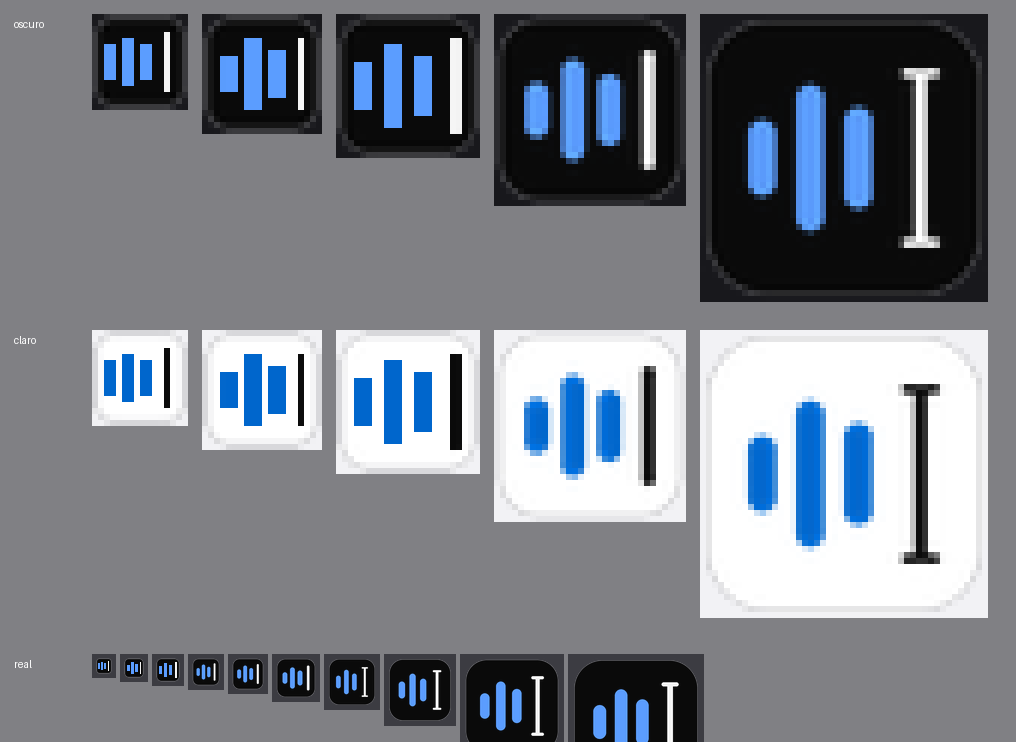
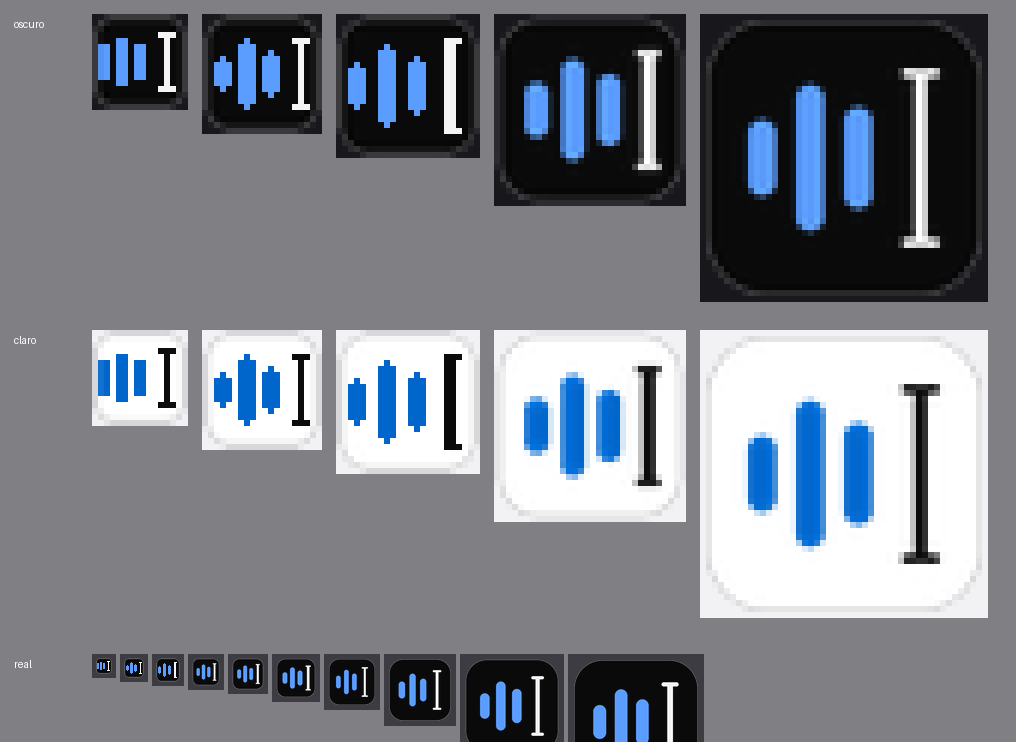
icono: la marca completa en todas las tallas
- Por debajo de 48 px la marca se simplificaba: de 28 a 47 px el cursor iba
  sin remates y por debajo de 28 px barras y cursor eran rectangulos secos.
- Ahora las barras son capsulas (radio bw/2) en todas las tallas y el cursor
  lleva asta y sus dos remates en las tres geometrias: 1 px en la rejilla
  pequena, 24 unidades centradas en el asta de 28 a 47 px y el remate de
  siempre de 48 px en adelante (que no cambia ni un pixel).
- _ICON_ICO_VER 9 -> 10: cambian el .ico cacheado y la URL del favicon.
- Version 1.0.10 en codigo, instalador y README; CHANGES al dia.

diff --git a/dicta_icon.py b/dicta_icon.py
@@ -12,12 +12,15 @@ de un borde (el mismo principio que el cuerpo de la isla). La marca se dibuja a
 8x y se reduce (anti-alias limpio) y se recorta contra el azulejo, para que no
 asome por las esquinas redondeadas.
 
-El icono se **adapta a cada talla** (no es un unico PNG reescalado):
+El icono se **adapta a cada talla** (no es un unico PNG reescalado), pero la
+marca es SIEMPRE la completa --barras con radio y cursor con remates--; lo que
+cambia es el grosor del trazo y la rejilla:
 
 * 16-27 px: geometria entera y sin supermuestreo, para que caiga en la rejilla
-  de pixeles y no se emborrone en la barra de tareas.
-* 28-47 px: barras y cursor mas gruesos y sin remates.
-* 48 px en adelante: cursor con remates (I-beam) y trazo mas fino.
+  de pixeles y no se emborrone en la barra de tareas. El cursor lleva sus dos
+  remates, de 1 px.
+* 28-47 px: barras y cursor mas gruesos.
+* 48 px en adelante: trazo mas fino.
 
 El .ico trae las tallas de los escalados de Windows (125 %, 150 %, 175 %,
 200 %): pedir una talla que no existe obliga al sistema a reescalar y ahi se
@@ -138,10 +141,11 @@ def mark_wave_caret(size, bars=ICON_BARS, light=False):
     y acaba en el punto de insercion, que es lo que hace la app. Asimetrica a
     proposito: asi no se confunde con una onda generica.
 
-    Tres geometrias, segun la talla: de 48 px en adelante el cursor lleva
-    remates (I-beam); de 28 a 47 px, barras y cursor mas gruesos y sin remates;
-    por debajo de 28 px, rejilla entera sin reescalado (anti-alias nulo).
-    ``bars`` se conserva por compatibilidad de firma.
+    La marca es la MISMA en todas las tallas: barras con radio y cursor completo
+    (asta con sus dos remates de I-beam). Lo unico que cambia es como se
+    construye: por debajo de 28 px la rejilla es entera, sin reescalado, y los
+    remates bajan a 1 px; de 28 a 47 px el trazo va mas grueso; de 48 px en
+    adelante es mas fino. ``bars`` se conserva por compatibilidad de firma.
     """
     size = int(size)
     if size <= 0:
@@ -157,8 +161,12 @@ def mark_wave_caret(size, bars=ICON_BARS, light=False):
         bw = max(2, int(round(unit)))
         gap = max(1, int(round(unit * 0.55)))
         cg = max(2, int(round(unit * 0.82)))
-        cw = max(1, int(round(unit * 0.55)))
-        total = 3 * bw + 2 * gap + cg + cw
+        cw = max(1, int(round(unit * 0.55)))       # grosor del asta
+        # Los remates son mas anchos que el asta: entran en el reparto, o el
+        # cursor se sale de la caja y el conjunto queda descentrado.
+        capw = max(3, int(round(size * 0.133)))
+        caph = max(1, int(round(size * 0.035)))
+        total = 3 * bw + 2 * gap + cg + capw
         x0 = (size - total) // 2
         img = Image.new("RGBA", (size, size), (0, 0, 0, 0))
         d = ImageDraw.Draw(img)
@@ -166,11 +174,17 @@ def mark_wave_caret(size, bars=ICON_BARS, light=False):
             hh = _snap(size * f, size)
             x = x0 + i * (bw + gap)
             top = (size - hh) // 2
-            d.rectangle([x, top, x + bw - 1, top + hh - 1], fill=acc)
+            d.rounded_rectangle([x, top, x + bw - 1, top + hh - 1],
+                                radius=max(1, bw // 2), fill=acc)
         hc = _snap(size * _CARET_H, size)
-        xc = x0 + 3 * bw + 2 * gap + cg
+        cx = x0 + 3 * bw + 2 * gap + cg            # bloque del cursor
+        xc = cx + (capw - cw) // 2                 # asta centrada en los remates
         top = (size - hc) // 2
-        d.rectangle([xc, top, xc + cw - 1, top + hc - 1], fill=car)
+        d.rounded_rectangle([xc, top, xc + cw - 1, top + hc - 1],
+                            radius=max(1, cw // 2), fill=car)
+        for y in (top, top + hc - caph):           # remate de arriba y de abajo
+            d.rounded_rectangle([cx, y, cx + capw - 1, y + caph - 1],
+                                radius=max(1, caph // 2), fill=car)
         return img
 
     full = size >= 48
@@ -197,11 +211,15 @@ def mark_wave_caret(size, bars=ICON_BARS, light=False):
         d = ImageDraw.Draw(m)
         d.rounded_rectangle([sx * u, 34 * u, (sx + sw) * u - 1, 146 * u - 1],
                             radius=sw * u / 2.0, fill=255)
-        if full:
-            for y in (34, 140):
-                d.rounded_rectangle([126 * u, y * u, 150 * u - 1,
-                                     (y + 6) * u - 1],
-                                    radius=3 * u, fill=255)
+        # Remates en TODAS las tallas grandes, centrados en el asta: 24
+        # unidades de ancho son 3x el asta fina y 2x la gruesa, que es lo que
+        # pide una I-beam. Con 24 en el asta fina esto da 126..150, el mismo
+        # remate que ya llevaba la talla grande.
+        cx = sx + sw / 2.0 - 12.0
+        for y in (34, 140):
+            d.rounded_rectangle([cx * u, y * u, (cx + 24.0) * u - 1,
+                                 (y + 6) * u - 1],
+                                radius=3 * u, fill=255)
         return m
 
     wave = _mark_from_mask(size, bars_mask, _accent(light))

diff --git a/dicta.py b/dicta.py
@@ -230,7 +230,7 @@ SERVER_LOG = os.path.join(SCRIPT_DIR, "whisper_server.log")
 # aqui sale `/state.version` (el panel la pinta como vX.Y.Z) y el log de
 # arranque. El comparador de actualizaciones tambien la usa. `APP_VERSION` se
 # conserva como alias por compatibilidad.
-VERSION = "1.0.9"
+VERSION = "1.0.10"
 APP_VERSION = VERSION
 WHISPER_EXE = os.path.join(RESOURCE_DIR, "whisper_bin", "Release", "whisper-cli.exe")
 # Motores GPU: cada backend vive en su carpeta con su whisper-server + DLLs.
@@ -5788,7 +5788,7 @@ def icon_version():
 
 
 _ICON_ICO_CACHE = {}             # tema -> ruta del .ico OFICIAL
-_ICON_ICO_VER = "9"              # versión del dibujo oficial (nombre del .ico)
+_ICON_ICO_VER = "10"              # versión del dibujo oficial (nombre del .ico)
 
 
 def _official_icon_ico(theme=None):

diff --git a/CHANGES.md b/CHANGES.md
@@ -4,6 +4,33 @@ Fecha: 2026-07-10 · Acompañado del skill Impeccable (v4.5.0) para el diseño d
 
 Cada cambio incluye la validación concreta que lo confirmó.
 
+## v1.0.10 — 26 de octubre de 2026
+
+**El icono pasa a ser el completo en todas las tallas.**
+
+- Hasta ahora la marca se simplificaba por debajo de 48 px: de 28 a 47 px el
+  cursor iba **sin remates** y por debajo de 28 px las barras y el cursor eran
+  **rectángulos secos**.
+- Ahora las barras son **cápsulas** (radio `bw/2`) en todas las tallas y el
+  cursor lleva su asta y **sus dos remates** en las tres geometrías: 1 px en la
+  rejilla pequeña (donde entran en el reparto, o el cursor se sale y el
+  conjunto queda descentrado), 24 unidades centradas en el asta de 28 a 47 px y
+  el remate de siempre de 48 px en adelante —con el asta fina da 126..150, el
+  mismo que ya llevaba la talla grande, así que ahí no cambia ni un píxel.
+- `_ICON_ICO_VER` 9 → **10**: cambian el nombre del `.ico` cacheado y la URL del
+  favicon, así que la ventana y el panel no siguen enseñando el dibujo viejo.
+
+Validación. Hoja `assets/_icon_check.png` (16/20/24/32/48 px en los dos temas y
+la fila a tamaño real) y comprobación automática contra `HEAD`:
+
+| Comprobación | Resultado |
+|---|---|
+| `official_image` (9 tallas × 2 temas) | cuadrado, esquina transparente, azulejo opaco |
+| `wave_mark` (la onda de la isla) | **idéntico** a HEAD en 16/20/24/32/64/128 px |
+| Remates del cursor | presentes en 16, 20, 24, 28, 32, 40, 48, 64, 128 y 256 px |
+| Barras | cápsula (la punta mide menos que el centro) en 24 px y más |
+| `.ico` | 13 capas cuadradas; **cambian** 16/24/32/40 y salen **idénticas** 48/64/256 |
+
 ## v1.0.9 — 25 de octubre de 2026
 
 **La isla cambia de forma según el borde y el tema.**

diff --git a/DESIGN.md b/DESIGN.md
@@ -163,10 +163,11 @@ el punto de inserción, que es lo que hace la app—. El cursor va en el neutro 
 tema (`#F5F5F5` en oscuro, `#0A0A0A` en claro). Es asimétrica a propósito: así no
 se lee como una onda genérica.
 
-**Cada talla se redibuja**: por debajo de 28 px la geometría es entera y sin
-reescalado, para que caiga en la rejilla de píxeles de la barra de tareas; de 28
-a 47 px las barras y el cursor van más gruesos y sin remates; desde 48 px el
-cursor lleva remates (I-beam). El `.ico` trae las tallas de los escalados de
+**Cada talla se redibuja**, pero la marca es siempre la misma —barras con radio
+y cursor completo, con el asta y sus dos remates—: por debajo de 28 px la
+geometría es entera y sin reescalado, para que caiga en la rejilla de píxeles de
+la barra de tareas y los remates bajan a 1 px; de 28 a 47 px el trazo va más
+grueso; desde 48 px es más fino. El `.ico` trae las tallas de los escalados de
 Windows (16, 20, 24, 28, 32, 36, 40, 48, 56, 64, 96, 128 y 256) y la bandeja se
 dibuja a `SM_CXSMICON` y se entrega 1:1: sin tallas exactas el sistema reescala
 y el icono pierde nitidez. El azulejo es **opaco** —blanco puro en claro,

diff --git a/README.md b/README.md
@@ -30,7 +30,7 @@ está adjunto en la release.*
 
 ## Cómo se usa (sin instalar nada)
 
-1. Descarga **`dicta-portable-1.0.9-windows-x64.zip`** desde
+1. Descarga **`dicta-portable-1.0.10-windows-x64.zip`** desde
    [Releases](https://github.com/JDMoreu/dicta/releases/latest).
 2. Descomprímelo en una carpeta escribible (p. ej. `%LOCALAPPDATA%\Programs\dicta`).
 3. Ejecuta **`dicta.exe`** y acepta el aviso de administrador.
@@ -57,7 +57,7 @@ en `models\`, se descarga solo la primera vez desde HuggingFace.
 
 Secciones **Dictado**, **Diccionario**, **Reunión**, **Audios y documentos**,
 **Atajos de teclado** y **Apariencia**. En el pie, el motor activo y la versión
-(`Actualizado · v1.0.9`).
+(`Actualizado · v1.0.10`).
 
 | Dictado: idioma, motor, modelo y micrófono | Reunión: grabando sistema + micrófono |
 |---|---|
